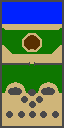
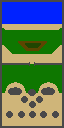
Added compatability for more transision tiles

Changed region(s): [[0.2812, 0.25, 0.75, 0.4062]]

diff --git a/src/game/levels/tile/TileManager.java b/src/game/levels/tile/TileManager.java
@@ -23,13 +23,13 @@ public class TileManager {
     public static final int STONE = 0xff494949;
     public static final int GRASS = 0xff0e7700;
     public static final int MUD = 0xff593000;
-    public static final int WOODFLOOR = 0xffae5d17;
-    public static final int SANDSTONE = 0xffe6cd91;
     public static final int VOIDTILE = 0xffff00ff;
 
 
     public static final int SAND_TO_WATER = 0xff0022ff;
     public static final int GRASS_TO_SAND = 0xffcfb579;
+    public static final int GRASS_TO_DIRT = 0xff5c4500;
+    public static final int DIRT_TO_GRASS = 0xff204600;
 
     TransitionTileAnimator tileAnimator = new TransitionTileAnimator();
 
@@ -54,12 +54,12 @@ public class TileManager {
             return getAnimatedTransitionTileVariant(x,y, SAND_TO_WATER, GRASS_TO_SAND, Tile.sandToWaterTiles);
         }else if(tiles[x+y*numXTiles] == MUD){
             return Tile.mud;
-        }else if(tiles[x+y*numXTiles] == WOODFLOOR){
-            return Tile.woodFloor;
-        }else if(tiles[x+y*numXTiles] == GRASS_TO_SAND){
+        }else if(tiles[x+y*numXTiles] == GRASS_TO_SAND) {
             return getTransitionTileVariant(x, y, GRASS_TO_SAND, GRASS, Tile.grassToSandTiles);
-        }else if(tiles[x+y*numXTiles] == SANDSTONE){
-            return Tile.sandStone;
+        }else if(tiles[x+y*numXTiles] == GRASS_TO_DIRT) {
+            return getTransitionTileVariant(x, y, GRASS_TO_DIRT, GRASS, Tile.grassToDirtTiles);
+        }else if(tiles[x+y*numXTiles] == DIRT_TO_GRASS){
+            return getTransitionTileVariant(x, y, DIRT_TO_GRASS, GRASS_TO_DIRT, Tile.dirtToGrassTiles);
         }else{
             return Tile.voidTile;
         }
